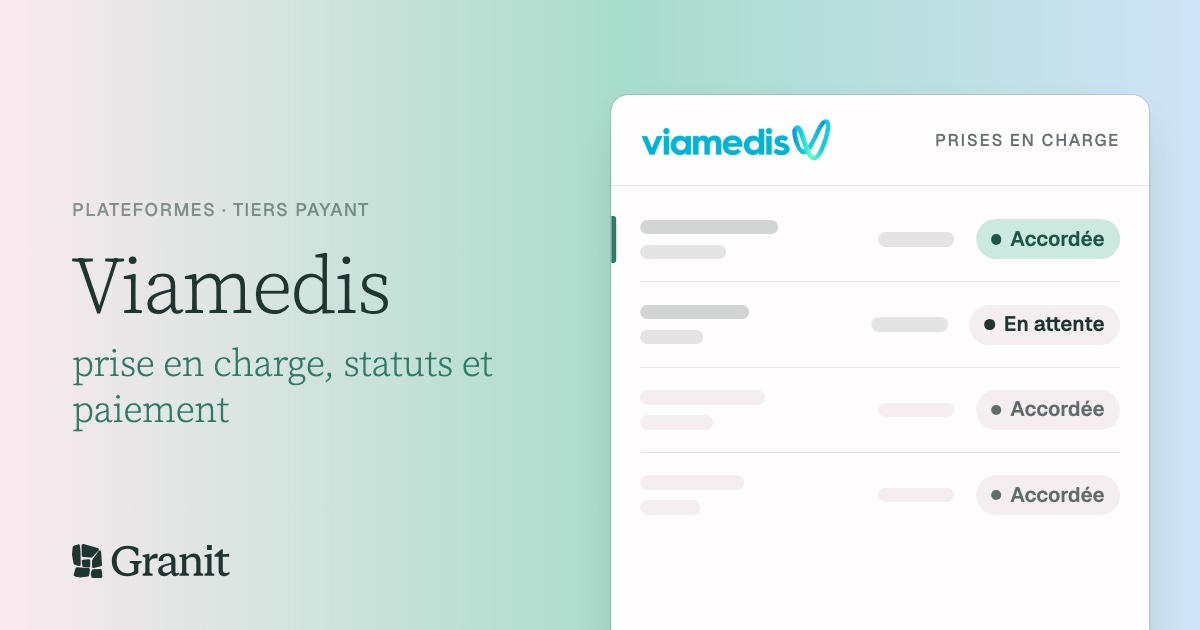
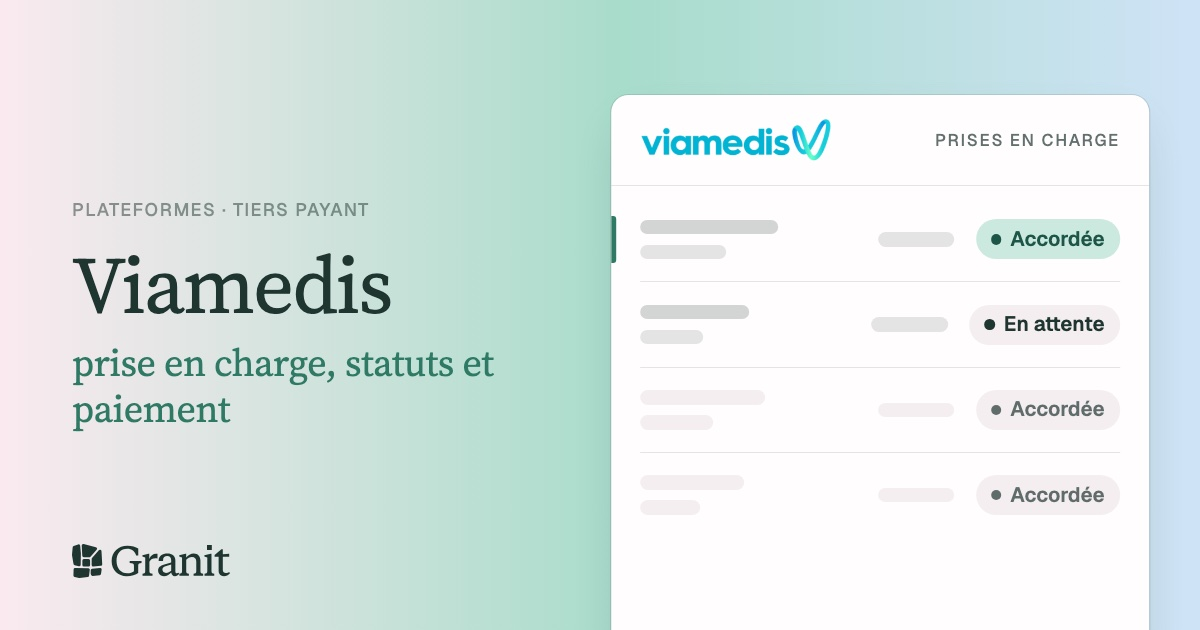
Marque : tous les titres en Regular 400 (le Light 300 est abandonné)
Décision du 3/11 : le 300 était trop fin, tous les titres passent en 400
comme le reste de la marque. Annule b8f024a (grands titres Ressources en
300) et aligne aussi le hero et les titres de section de l'accueil
(.h1-hero, .h2-section, HomeSections). Le 300 n'est plus chargé depuis
Google Fonts. Les images d'aperçu des fiches plateformes sont régénérées :
titre en 400, et le nouveau logo à la place de l'ancien.

diff --git a/src/components/home/HomeSections.tsx b/src/components/home/HomeSections.tsx
@@ -596,7 +596,7 @@ export function HomeSections() {
 
             <h1
               className="mt-7 font-serif"
-              style={{ fontSize: "clamp(34px,4.4vw,60px)", lineHeight: 1.05, letterSpacing: "-0.025em", color: "var(--text)", fontWeight: 300, whiteSpace: "nowrap" }}
+              style={{ fontSize: "clamp(34px,4.4vw,60px)", lineHeight: 1.05, letterSpacing: "-0.025em", color: "var(--text)", fontWeight: 400, whiteSpace: "nowrap" }}
             >
               <motion.span
                 initial={{ opacity: 0, y: 20 }}
@@ -789,7 +789,7 @@ export function HomeSections() {
               <div className="eyebrow">
                 {t.agentsEyebrow}
               </div>
-              <h2 className="mt-5 font-serif" style={{ fontSize: "clamp(32px,3.8vw,52px)", lineHeight: 1.1, letterSpacing: "-0.02em", fontWeight: 300 }}>
+              <h2 className="mt-5 font-serif" style={{ fontSize: "clamp(32px,3.8vw,52px)", lineHeight: 1.1, letterSpacing: "-0.02em", fontWeight: 400 }}>
                 {t.agentsTitle} {t.agentsTitle2}
               </h2>
               <p className="mx-auto mt-6 max-w-xl text-[15px]" style={{ color: "var(--text-soft)" }}>
@@ -888,7 +888,7 @@ export function HomeSections() {
               <div className="eyebrow">
                 {lang === "fr" ? "Démo interactive" : "Interactive demo"}
               </div>
-              <h2 className="mt-5 font-serif" style={{ fontSize: "clamp(32px,3.8vw,52px)", lineHeight: 1.1, letterSpacing: "-0.02em", fontWeight: 300 }}>
+              <h2 className="mt-5 font-serif" style={{ fontSize: "clamp(32px,3.8vw,52px)", lineHeight: 1.1, letterSpacing: "-0.02em", fontWeight: 400 }}>
                 {lang === "fr" ? "Essayez " : "Try "}
                 <em className="accent-italic">
                   {lang === "fr" ? "la plateforme" : "the platform"}
@@ -1239,7 +1239,7 @@ export function HomeSections() {
             <Reveal>
               <div>
                 <div className="eyebrow mb-5">{t.demo.eyebrow}</div>
-                <h2 className="font-serif" style={{ fontSize: "clamp(34px,4vw,56px)", lineHeight: 1.05, letterSpacing: "-0.02em", fontWeight: 300 }}>
+                <h2 className="font-serif" style={{ fontSize: "clamp(34px,4vw,56px)", lineHeight: 1.05, letterSpacing: "-0.02em", fontWeight: 400 }}>
                   {t.demo.title}
                 </h2>
                 <p className="body-lg mt-7 max-w-md">{t.demo.intro}</p>

diff --git a/src/components/ressources/Cartes.tsx b/src/components/ressources/Cartes.tsx
@@ -293,7 +293,7 @@ export function CarteUne({ fiche, titre = "h2" }: { fiche: Fiche; titre?: "h2" |
         prioritaire="haute"
         rang={0}
       />
-      <H className="mt-5 max-w-[28ch] font-serif text-[clamp(26px,2.6vw,36px)] font-light leading-[1.15] tracking-[-0.015em]">
+      <H className="mt-5 max-w-[28ch] font-serif text-[clamp(26px,2.6vw,36px)] font-normal leading-[1.15] tracking-[-0.015em]">
         <TitreItalique titre={fiche.title} ink={c.ink} />
       </H>
       {fiche.metaDescription && (
@@ -324,7 +324,7 @@ export function CartePilier({ fiche }: { fiche: Fiche }) {
         <span className="eyebrow">
           Pour commencer
         </span>
-        <h2 className="mt-3 font-serif text-[clamp(26px,2.6vw,36px)] font-light leading-[1.15] tracking-[-0.015em]">
+        <h2 className="mt-3 font-serif text-[clamp(26px,2.6vw,36px)] font-normal leading-[1.15] tracking-[-0.015em]">
           <TitreItalique titre={fiche.title} ink={c.ink} />
         </h2>
         {fiche.metaDescription && (

diff --git a/src/components/ressources/Hub.tsx b/src/components/ressources/Hub.tsx
@@ -49,7 +49,7 @@ export function Hub() {
       <div className="ress bg-[var(--bg2)]">
         <section className={`${conteneur} pb-8 pt-12 text-center md:pt-14`}>
           <div className="eyebrow">Ressources · Pour les professionnels de santé</div>
-          <h1 className="mx-auto mt-4 font-serif text-[clamp(40px,5.2vw,64px)] font-light leading-[1.14] tracking-[-0.02em] [text-wrap:balance]">
+          <h1 className="mx-auto mt-4 font-serif text-[clamp(40px,5.2vw,64px)] font-normal leading-[1.14] tracking-[-0.02em] [text-wrap:balance]">
             L'administratif de santé,
             <br className="hidden md:block" />{" "}
             <em className="accent-italic whitespace-nowrap">sans le casse-tête</em>.

diff --git a/src/components/ressources/PageMetier.tsx b/src/components/ressources/PageMetier.tsx
@@ -62,7 +62,7 @@ export function PageMetier({ v }: { v: Verticale }) {
         >
           <div className="lg:col-span-5">
             <Fil items={[{ nom: "Ressources", to: "/ressources" }, { nom: v.nom }]} />
-            <h1 className="mt-4 font-serif text-[clamp(32px,4.4vw,52px)] font-light leading-[1.08] tracking-[-0.015em] [text-wrap:balance]">
+            <h1 className="mt-4 font-serif text-[clamp(32px,4.4vw,52px)] font-normal leading-[1.08] tracking-[-0.015em] [text-wrap:balance]">
               {v.nom} : <em className="accent-italic">tiers payant et gestion administrative</em>
             </h1>
             <p className="body-lg mt-4 max-w-[52ch]">{v.description}</p>

diff --git a/src/components/ressources/MurPlateformes.tsx b/src/components/ressources/MurPlateformes.tsx
@@ -68,7 +68,7 @@ export function MurPlateformes({ fiches }: { fiches: Fiche[] }) {
       <div className="border-t border-[var(--border)] pt-5">
         <div className="max-w-[56ch]">
           <p className={`${mono} text-[var(--text-muted)]`}>Annuaire du tiers payant</p>
-          <h2 className="mt-2 font-serif text-[26px] font-light leading-tight md:text-[34px]">
+          <h2 className="mt-2 font-serif text-[26px] font-normal leading-tight md:text-[34px]">
             Les plateformes de tiers payant
           </h2>
           <p className="mt-2 text-[15px] leading-relaxed text-[var(--text-soft)]">

diff --git a/src/components/ressources/PageCategorie.tsx b/src/components/ressources/PageCategorie.tsx
@@ -57,7 +57,7 @@ export function PageCategorie({ cat }: { cat: Categorie }) {
                 { nom: cat.nom },
               ]}
             />
-            <h1 className="mt-4 max-w-[22ch] font-serif text-[clamp(32px,4.4vw,54px)] font-light leading-[1.08] tracking-[-0.015em]">
+            <h1 className="mt-4 max-w-[22ch] font-serif text-[clamp(32px,4.4vw,54px)] font-normal leading-[1.08] tracking-[-0.015em]">
               {cat.nom}
             </h1>
             <p className="mt-4 max-w-[62ch] text-[18px] text-[var(--text-soft)]">

diff --git a/src/components/ressources/article/PageArticle.tsx b/src/components/ressources/article/PageArticle.tsx
@@ -195,7 +195,7 @@ export function PageArticle({
                     />
                   </div>
                 )}
-                <h1 className="max-w-[22ch] font-serif text-[clamp(32px,4.4vw,54px)] font-light leading-[1.08] tracking-[-0.015em] [text-wrap:balance]">
+                <h1 className="max-w-[22ch] font-serif text-[clamp(32px,4.4vw,54px)] font-normal leading-[1.08] tracking-[-0.015em] [text-wrap:balance]">
                   <TitreItalique titre={a.title} ink={cat.ink} />
                 </h1>
               </div>

diff --git a/src/routes/__root.tsx b/src/routes/__root.tsx
@@ -86,7 +86,7 @@ export const Route = createRootRoute({
       { rel: "preconnect", href: "https://fonts.gstatic.com", crossOrigin: "anonymous" },
       {
         rel: "stylesheet",
-        href: "https://fonts.googleapis.com/css2?family=Geist:wght@400;500;600&family=Source+Serif+4:opsz,wght@8..60,300;8..60,400&display=swap",
+        href: "https://fonts.googleapis.com/css2?family=Geist:wght@400;500;600&family=Source+Serif+4:opsz,wght@8..60,400&display=swap",
       },
       { rel: "stylesheet", href: appCss },
     ],

diff --git a/src/components/ressources/article/CtaAgent.tsx b/src/components/ressources/article/CtaAgent.tsx
@@ -485,7 +485,7 @@ export function EncartAgent({
       <div className="ress-cta-encart">
         <div>
           <p className="ress-cta-etiquette">À la fin de cet article</p>
-          <h2 className="mt-2.5 font-serif text-[clamp(26px,3.2vw,36px)] font-light leading-[1.15]">
+          <h2 className="mt-2.5 font-serif text-[clamp(26px,3.2vw,36px)] font-normal leading-[1.15]">
             {c.fin}
           </h2>
           <p className="mt-3 max-w-[46ch] text-[16px] leading-relaxed text-sur-encre-secondaire">

diff --git a/src/styles.css b/src/styles.css
@@ -204,7 +204,7 @@
   .h1-hero {
     font-family: var(--font-serif);
     font-variation-settings: "opsz" 20;
-    font-weight: 300;
+    font-weight: 400;
     font-size: clamp(52px, 7.5vw, 124px);
     letter-spacing: -0.025em;
     line-height: 1.0;
@@ -214,7 +214,7 @@
   .h2-section {
     font-family: var(--font-serif);
     font-variation-settings: "opsz" 20;
-    font-weight: 300;
+    font-weight: 400;
     font-size: clamp(34px, 4vw, 60px);
     letter-spacing: -0.02em;
     line-height: 1.05;

diff --git a/src/components/ressources/BandeDemo.tsx b/src/components/ressources/BandeDemo.tsx
@@ -22,7 +22,7 @@ export function BandeDemo() {
         <p className="eyebrow">
           Avec les agents Granit, vous arrêtez de
         </p>
-        <h2 className="mt-4 font-serif text-[clamp(30px,4.4vw,54px)] font-light leading-[1.1]">
+        <h2 className="mt-4 font-serif text-[clamp(30px,4.4vw,54px)] font-normal leading-[1.1]">
           <span className="sr-only">{CORVEES.join(", ")}.</span>
           <span aria-hidden className="corvee-cadre">
             <span

diff --git a/src/components/ressources/PageAncien.tsx b/src/components/ressources/PageAncien.tsx
@@ -97,7 +97,7 @@ export function PageAncien({ slug }: { slug: string }) {
             style={{
               fontSize: "clamp(36px,4.6vw,64px)",
               lineHeight: 1.1,
-              fontWeight: 300,
+              fontWeight: 400,
               letterSpacing: "-0.02em",
             }}
           >
